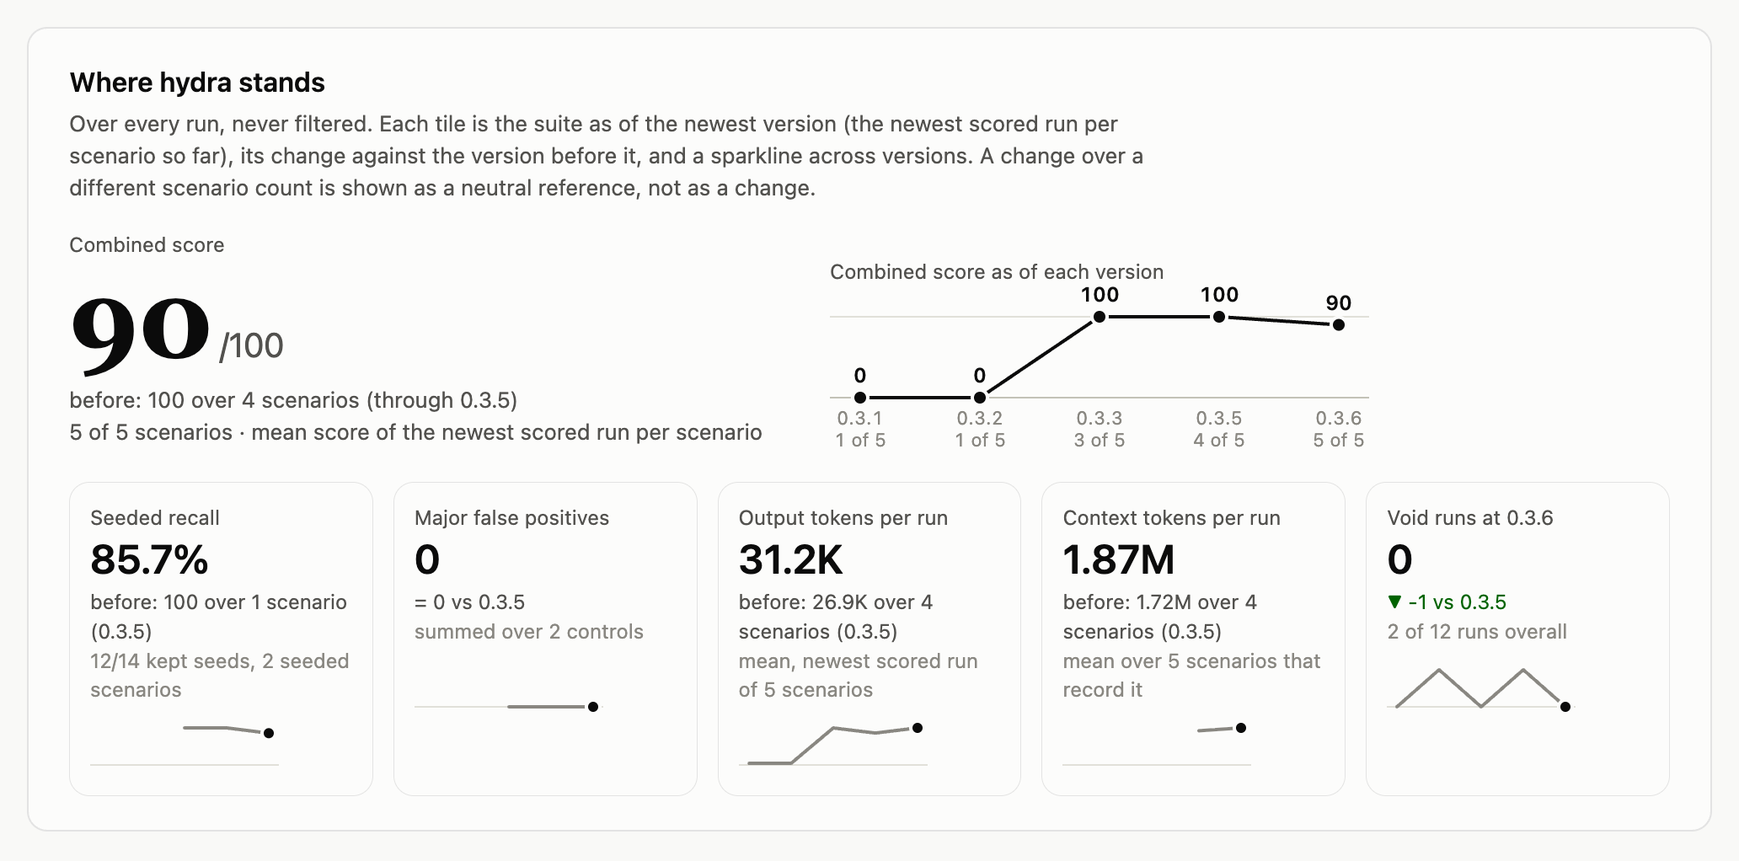
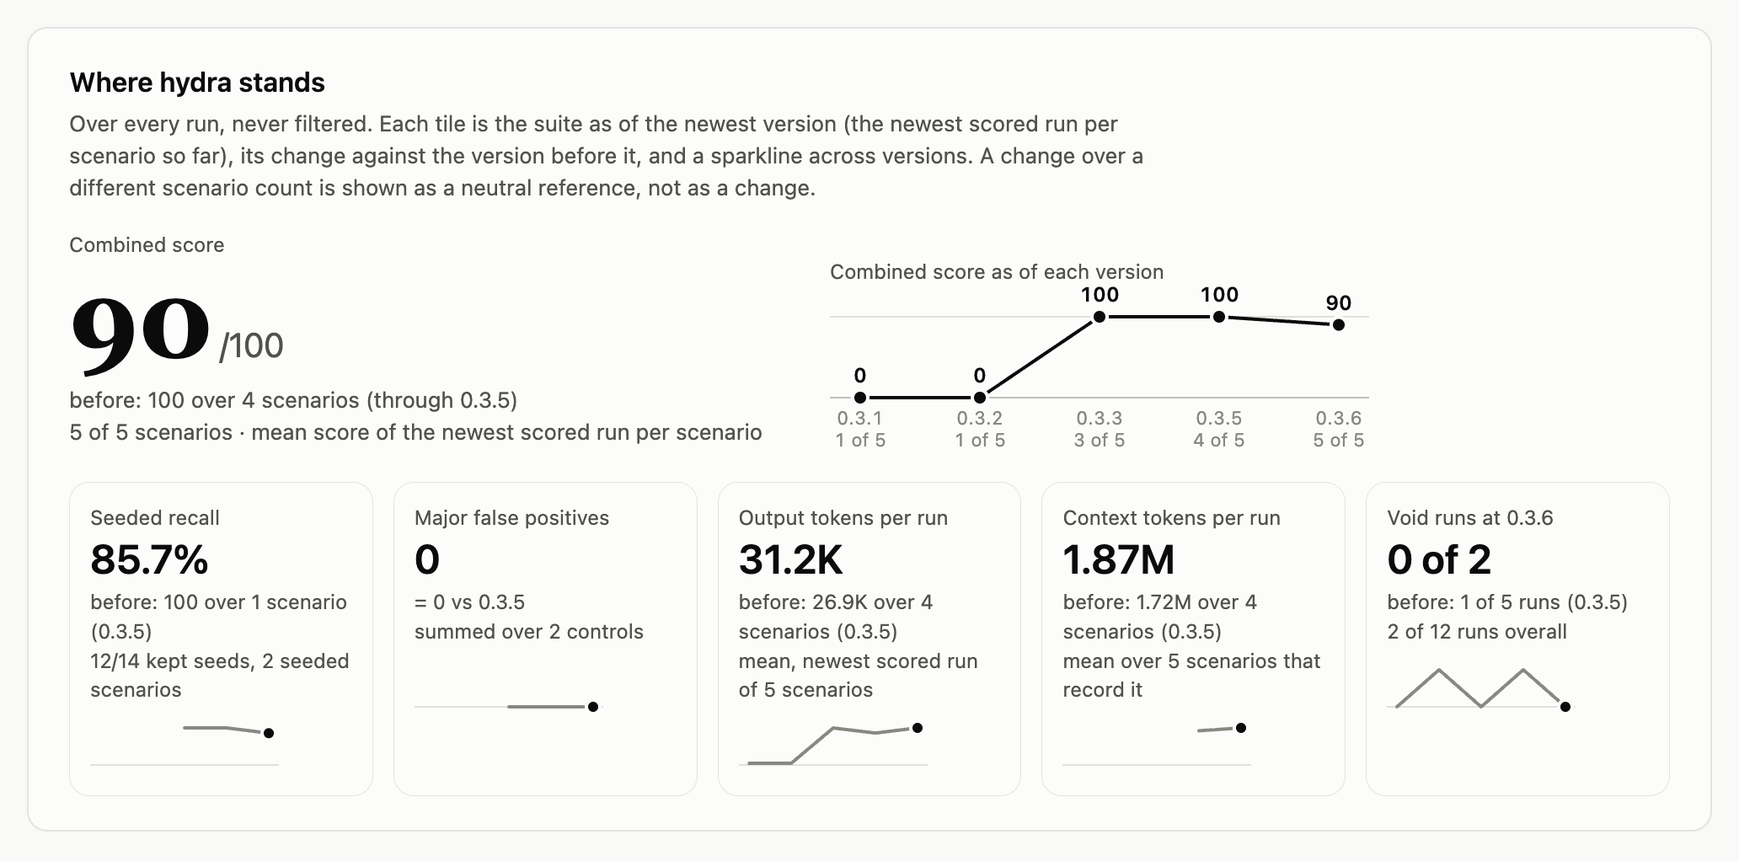
Evals report: review cycle 1 fixes
The scorecard cost row is the mean of per-run ratios over scored runs, and its
change covers only scenarios both versions scored. Trends mark a void run off the
value axis. The progress chart's partial-score label is haloed again. Void-run
counts compare only over equal run counts. Run vs run defaults to the newest
scored older version, and cost deltas against a void run are tagged and not
coloured. A seeded score changes by recall on shared seeds. Small text and
legend chips get more contrast.

diff --git a/evals/report.html b/evals/report.html
@@ -25,6 +25,7 @@ svg{display:block;max-width:100%;height:auto;overflow:visible}
 svg text{fill:var(--ink2);font-size:12px;font-variant-numeric:tabular-nums}
 .muted{fill:var(--muted)!important;font-size:11px}
 .ink{fill:var(--ink)!important}.b{font-weight:600}
+.halo{paint-order:stroke;stroke:var(--surface);stroke-width:4px;stroke-linejoin:round}
 .good{color:var(--good-t)!important;fill:var(--good-t)!important}.bad{color:var(--bad-t)!important;fill:var(--bad-t)!important}
 .up{color:var(--good-t)!important}.down{color:var(--bad-t)!important}
 [tabindex]{outline:none}[tabindex]:focus-visible>.hit,[tabindex]:hover>.hit{stroke:var(--ink);stroke-width:1.5}
@@ -32,7 +33,7 @@ td[tabindex]:hover,td[tabindex]:focus-visible{box-shadow:inset 0 0 0 1.5px var(-
 .hit{fill:transparent}
 .legend{display:flex;flex-wrap:wrap;gap:4px 14px;font-size:12px;color:var(--ink2);margin:0 0 12px}
 .legend>span{display:inline-flex;align-items:center;gap:5px}
-.legend i{display:inline-block;width:10px;height:10px;border-radius:2px;box-shadow:inset 0 0 0 .5px var(--axis)}
+.legend i{display:inline-block;width:10px;height:10px;border-radius:2px;box-shadow:inset 0 0 0 1px color-mix(in oklab,var(--ink) 30%,transparent)}
 .sw{display:inline-block;flex:none;overflow:visible}
 .tablewrap{overflow-x:auto;max-width:100%}
 table{border-collapse:collapse;width:100%;font-size:13px;font-variant-numeric:tabular-nums}
@@ -52,15 +53,15 @@ rect.st-pass{fill:var(--t-pass)}rect.st-fail{fill:var(--t-fail)}rect.st-partial{
 .kpis{display:grid;grid-template-columns:repeat(auto-fit,minmax(140px,1fr));gap:12px}
 .tile{border:.5px solid var(--border);border-radius:12px;padding:12px;min-width:0}
 .tile .v{font-size:24px;font-weight:600;margin:2px 0;line-height:1.2}.tile .v.sm{font-size:17px}
-.tile .d{font-size:12px;color:var(--ink2)}.tile .s{font-size:12px;color:var(--muted)}.tile svg{margin-top:8px}
+.tile .d{font-size:12px;color:var(--ink2)}.tile .s{font-size:12px;color:var(--ink2)}.tile svg{margin-top:8px}
 .group{font-size:12px;color:var(--ink2);margin:16px 0 8px}
 .matrix th,.matrix td{padding:8px 10px;border-bottom:.5px solid var(--grid);white-space:nowrap}
 .matrix tbody th,.matrix thead th:first-child{position:sticky;left:0;background:var(--surface);z-index:1}.matrix thead th{text-align:center}.matrix thead th:first-child{text-align:left}
 .matrix td.cell{text-align:center;border-left:2px solid var(--surface);border-radius:6px;font-weight:600}
 .matrix td.delta{font-size:12px;color:var(--ink2)}
-.matrix tbody th{color:var(--ink);font-size:13px}.matrix tbody th>div:first-child,.matrix tbody th:not(.scn){display:flex;align-items:center;gap:6px}.matrix .vs{font-weight:400;color:var(--muted);font-size:12px;margin-left:20px}
+.matrix tbody th{color:var(--ink);font-size:13px}.matrix tbody th>div:first-child,.matrix tbody th:not(.scn){display:flex;align-items:center;gap:6px}.matrix .vs{font-weight:400;color:var(--ink2);font-size:12px;margin-left:20px}
 .matrix tfoot th,.matrix tfoot td{font-weight:400;color:var(--ink2);font-size:12px;text-align:center;border-bottom:none}
-.matrix tfoot th{text-align:left}.matrix tfoot b{color:var(--ink);font-size:13px;display:block}
+.matrix tfoot th{text-align:left}.matrix tfoot td.delta{white-space:normal;min-width:150px}.matrix tfoot b{color:var(--ink);font-size:13px;display:block}
 .multiples{display:grid;grid-template-columns:repeat(auto-fill,minmax(min(100%,290px),1fr));gap:12px}
 .multiples.w{grid-template-columns:repeat(auto-fill,minmax(min(100%,440px),1fr))}
 .panel{border:.5px solid var(--border);border-radius:12px;padding:12px;min-width:0}
@@ -85,7 +86,7 @@ rect.st-pass{fill:var(--t-pass)}rect.st-fail{fill:var(--t-fail)}rect.st-partial{
 <section id="progress"><h2>Progress per eval run</h2><p class="sub">Every run, oldest to newest (date, then version). Run score 0–100: a seeded run scores its recall × 100 over kept seeds; a control or S16 scores 100 on a pass and 0 on a fail; a void run has no score (hollow, below the axis). The line is the combined score at the end of each version: the mean score of the newest scored run per scenario (newest by version) among the runs so far. Colour is the scenario family, shape the kind: circle seeded, diamond control, square S16.</p><div class="chart"></div><details><summary>Table view</summary><div class="tv"></div></details></section>
 <section id="scorecard"><h2>Version scorecard</h2><p class="sub">Each cell is the scenario’s result at that version: caught/kept seeds, major false positives (FP) on a control, pass or fail on S16. Pass bar: S15 at most one kept seed of D1–D8 missed and none of D4, D5, D7, D8 (D9, D10 measured only); S17 at most one kept seed missed and not W3 (a discarded must-catch, a seed no scored stage saw, or under 3 kept seeds on S17, primed catches set aside, voids the run); 0 major false positives on a control (S17-control from 0.3.7: and an on-brief merged head); S16 blocked, honest and unmerged. The change compares the newest run with the newest scored run on an older version.</p><div class="chart"></div><details><summary>Table view</summary><div class="tv"></div></details></section>
 <section id="trends"><h2>Trends per scenario</h2><p class="sub">One panel per scenario, one column per run, oldest version left. Each row has its own scale from 0; the right edge shows the newest value and its change against the run before. Hover or focus a column for every field of the run.</p><div class="chart"></div><details><summary>Table view</summary><div class="tv"></div></details></section>
-<section id="compare"><h2>Run vs run</h2><p class="sub">The same scenario on two versions. Default: its newest version against the version before it. Cost up reads bad, quality up reads good; a void run shows no quality number.</p><div class="chart"></div><details><summary>Table view</summary><div class="tv"></div></details></section>
+<section id="compare"><h2>Run vs run</h2><p class="sub">The same scenario on two versions. Default: its newest version against its newest scored older version (the scorecard’s comparison), else the version before it. Cost up reads bad, quality up reads good; a seeded score changes by recall on the seeds both runs hold; a void side shows no quality number, and a cost change against it is tagged and not coloured.</p><div class="chart"></div><details><summary>Table view</summary><div class="tv"></div></details></section>
 <section id="heatmap"><h2>Recall per planted defect</h2><p class="sub">S15-seeded runs, oldest to newest. Each cell names the stage that caught the defect; hover for the finding.</p><div class="chart"></div><details><summary>Table view</summary><div class="tv"></div></details></section>
 <section id="cost"><h2>Cost per stage</h2><p class="sub">Output tokens per stage (ag = agents), one scale per scenario so its versions compare stage by stage; stages that did not run show –. Normalized cost is defined in evals/README.md.</p><div class="chart"></div><details><summary>Table view</summary><div class="tv"></div></details></section>
 <section id="pipeline"><h2>hydra pipeline</h2><p class="sub"></p><div class="chart"></div><details><summary>Table view</summary><div class="tv"></div></details></section>
@@ -235,7 +236,7 @@ function versionKpis(runs) {
       recall: sd.length ? { value: kept ? Math.round(1000 * caught / kept) / 10 : 0, caught, kept, n: sd.length } : null,
       majorFP: ctl.length ? { value: ctl.reduce((a, r) => a + r.falsePositives.major, 0), n: ctl.length } : null,
       outputTokens: normMean(latest, 'outputTokens'), contextTokens: normMean(latest, 'contextTokens'),
-      voids: runs.filter(r => r.hydraVersion === version && passBar(r) === 'void').length }
+      voids: runs.filter(r => r.hydraVersion === version && passBar(r) === 'void').length, runs: runs.filter(r => r.hydraVersion === version).length }
   })
 }
 function kpiDelta(c, p, better, unit = '', f = String) {
@@ -244,25 +245,39 @@ function kpiDelta(c, p, better, unit = '', f = String) {
 }
 function scenarioVersions(runs, scenario) { return [...new Set(runs.filter(r => r.scenario === scenario).map(r => r.hydraVersion))].sort(vcmp) }
 function defaultPair(runs, scenario) {
-  const v = scenarioVersions(runs, scenario)
-  return v.length ? { base: v.at(-2) ?? v.at(-1), compare: v.at(-1) } : null
+  const v = scenarioVersions(runs, scenario), top = runOf(runs, scenario, v.at(-1))
+  return v.length ? { base: (top && previousOf(runs, top)?.hydraVersion) ?? v.at(-2) ?? v.at(-1), compare: v.at(-1) } : null
 }
 function compareRows(a, b) {
   const na = normCost(a), nb = normCost(b), va = passBar(a) === 'void', vb = passBar(b) === 'void'
   const row = (label, x, y, better, unit, f = String, q) => {
     const s = (v, isVoid) => q && isVoid ? 'void' : v == null ? '–' : f(v)
-    return { label, base: s(x, va), compare: s(y, vb), delta: q && (va || vb) ? null : change(y, x, better, unit) }
+    const d = q && (va || vb) ? null : change(y, x, better, unit)
+    // a cost change against a void run is real but not a like-for-like comparison: tagged, never coloured
+    return { label, base: s(x, va), compare: s(y, vb), delta: d && (va || vb) ? { text: `${d.text} vs void run`, cls: '' } : d }
   }
   const sd = r => { const s = seeds(r); return `${s.caught}/${s.kept}` }, seeded = b.scenario.endsWith('-seeded'), ctl = b.scenario.endsWith('-control'), tok = v => fmt(Math.round(v))
   const recall = seeded && { label: 'Recall', base: va ? 'void' : sd(a), compare: vb ? 'void' : sd(b), delta: null }
   if (recall && !va && !vb) { const d = recallDelta(b, a); recall.delta = { text: `${arrow(d)}${d} pts`, cls: d > 0 ? 'good' : d < 0 ? 'bad' : '' } }
-  return [row('Score', runScore(a), runScore(b), 1, ' pts', String, true), recall,
+  // a seeded score is its recall, so its change is the recall change on the seeds both runs hold
+  const score = row('Score', runScore(a), runScore(b), 1, ' pts', String, true); if (recall) score.delta = recall.delta
+  return [score, recall,
     ctl && row('Major false positives', a.falsePositives.major, b.falsePositives.major, -1, '', String, true),
     row('Output tokens', na.outputTokens, nb.outputTokens, -1, '%', tok), row('Context tokens', na.contextTokens, nb.contextTokens, -1, '%', tok),
     row('Agents', na.agents, nb.agents, -1), row('Wall minutes', na.wallMinutes, nb.wallMinutes, -1),
     seeded && row('Tokens per kept seed', na.perKept, nb.perKept, -1, '%', tok, true), seeded && row('Tokens per caught seed', na.perCaught, nb.perCaught, -1, '%', tok, true),
     row('Tokens per agent', na.perAgent, nb.perAgent, -1, '%', tok), row('Context per agent', na.ctxPerAgent, nb.ctxPerAgent, -1, '%', tok),
     row('Minutes per agent', na.minPerAgent, nb.minPerAgent, -1)].filter(Boolean)
+}
+function versionCost(runs, version) {
+  const rs = runs.filter(r => r.hydraVersion === version && passBar(r) !== 'void'), m = normMean(rs, 'perAgent')
+  return m && { ...m, tokens: rs.reduce((a, r) => a + r.cost.outputTokens, 0) }
+}
+function sharedCostDelta(runs, c, p) {
+  const scored = v => new Set(runs.filter(r => r.hydraVersion === v && passBar(r) !== 'void').map(r => r.scenario)), b = scored(p), shared = [...scored(c)].filter(s => b.has(s))
+  if (!shared.length) return null
+  const m = v => normMean(runs.filter(r => r.hydraVersion === v && shared.includes(r.scenario)), 'perAgent').value, d = change(m(c), m(p), -1, '%')
+  return d && { ...d, text: `${d.text} vs ${p} on ${shared.length} shared scenario${shared.length > 1 ? 's' : ''}` }
 }
 function runFields(r) {
   const n = normCost(r), s = runScore(r), sd = r.defects && seeds(r), fp = r.falsePositives
@@ -450,7 +465,9 @@ function runFields(r) {
     tile('Major false positives', fp ? String(fp.value) : '–', kpiDelta(fp, prev?.majorFP, -1), fp ? `summed over ${ofN(fp, 'control')}` : 'no scored control', ks.map(k => k.majorFP?.value ?? null), String)
     tile('Output tokens per run', tok(ot?.value), kpiDelta(ot, prev?.outputTokens, -1, '%', tok), ot ? `mean, newest scored run of ${ofN(ot, 'scenario')}` : '–', ks.map(k => k.outputTokens?.value ?? null), tok)
     tile('Context tokens per run', tok(ct?.value), kpiDelta(ct, prev?.contextTokens, -1, '%', tok), ct ? `mean over ${ofN(ct, 'scenario')} that record it` : 'not recorded yet', ks.map(k => k.contextTokens?.value ?? null), tok)
-    tile(`Void runs at ${last?.version ?? '–'}`, String(last?.voids ?? 0), prev ? change(last.voids, prev.voids, -1) : null, `${voids} of ${D.runs.length} runs overall`, ks.map(k => k.voids), String)
+    // void counts compare only over the same number of runs; else the earlier count is a neutral reference
+    const vd = !prev ? null : prev.runs === last.runs ? change(last.voids, prev.voids, -1) : { text: `before: ${prev.voids} of ${prev.runs} runs`, cls: '' }
+    tile(`Void runs at ${last?.version ?? '–'}`, last ? `${last.voids} of ${last.runs}` : '0', vd, `${voids} of ${D.runs.length} runs overall`, ks.map(k => k.voids), String)
     table(sec, ['Version', 'Combined', 'Seeded recall', 'Major FP (controls)', 'Output tokens per run', 'Context tokens per run', 'Void runs at version'],
       ks.map(k => [k.version, k.combined ? `${k.combined.value} (${k.combined.n} of ${n})` : '–', k.recall ? `${k.recall.value}% (${k.recall.caught}/${k.recall.kept})` : '–', k.majorFP ? String(k.majorFP.value) : '–', tok(k.outputTokens?.value), tok(k.contextTokens?.value), String(k.voids)]))
     table(sec, ['Tile', 'Value', 'Change', 'Detail'], rows, true, 'Tiles')
@@ -494,7 +511,7 @@ function runFields(r) {
       h('svg:rect', { x: x - CW / 2 + 1, y: TOP - 8, width: CW - 2, height: VY - TOP + 20, rx: 4, class: 'hit' }, g)
       mark(g, r.scenario, x, score === null ? VY : y(score), 5, score === null)
       // only a partial recall gets its number: 0 and 100 sit on gridlines
-      if (score % 100) t(g, x - 10, y(score) + 4, String(score), 'ink', 'end')
+      if (score % 100) t(g, x, y(score) - 10, String(score), 'ink halo', 'middle')
       t(g, x, XL, fam, 'ink', 'middle'); t(g, x, XL + 13, kind, 'muted', 'middle')
       hover(g, [[r.id], [score === null ? '⊘ void' : String(score), 'run score', score === null ? 'var(--neutral)' : col(r.scenario)], [r.scenario, 'scenario'], [r.hydraVersion, 'version'], [r.date, 'date'],
         [WORD[r.verdict], 'verdict'], [c ? String(c.score) : '–', `combined as of this run${c ? ` · ${c.n} of ${n} scenarios` : ''}`, 'var(--ink)']])
@@ -526,9 +543,9 @@ function runFields(r) {
       const latest = latestPerScenario(runs.filter(r => r.scenario === sc))[0], dl = scenarioDelta(latest, previousOf(runs, latest))
       h('td', { class: `delta ${dl.cls}` }, tr, dl.text)
     }
-    const ks = Object.fromEntries(versionKpis(D.runs).map(k => [k.version, k])), cost = vers.map(v => normMean(runs.filter(r => r.hydraVersion === v), 'perAgent'))
-    const frow = (label, cells, delta) => {
-      const tr = h('tr', {}, foot); h('th', { scope: 'row' }, tr, label)
+    const ks = Object.fromEntries(versionKpis(D.runs).map(k => [k.version, k])), cost = vers.map(v => versionCost(runs, v))
+    const frow = (label, cells, delta, note) => {
+      const tr = h('tr', {}, foot), th = h('th', { scope: 'row' }, tr, label); if (note) h('div', {}, th, note)
       for (const [main, sub] of cells) { const td = h('td', {}, tr); h('b', {}, td, main); td.append(sub) }
       h('td', { class: `delta ${delta?.cls ?? ''}`, style: 'text-align:left' }, tr, delta?.text ?? '')
     }
@@ -536,9 +553,8 @@ function runFields(r) {
       const k = vers.map(v => ks[v].combined), dk = kpiDelta(k.at(-1), k.at(-2), 1)
       frow('Combined as of version', k.map(c => c ? [String(c.value), `${c.n} of ${n}`] : ['–', '']), dk && { ...dk, text: `${dk.text}${dk.text.startsWith('before') ? '' : ` vs ${vers.at(-2)}`}` })
     }
-    const dc = change(cost.at(-1)?.value, cost.at(-2)?.value, -1, '%')
-    frow('Output tokens per agent', vers.map((v, i) => { const rs = runs.filter(r => r.hydraVersion === v); return [tok(cost[i]?.value), `${fmt(rs.reduce((a, r) => a + r.cost.outputTokens, 0))} in ${rs.length} run${rs.length > 1 ? 's' : ''}`] }),
-      dc && { ...dc, text: `${dc.text} vs ${vers.at(-2)}` })
+    frow('Output tokens per agent', cost.map(c => c ? [tok(c.value), `${c.n} run${c.n > 1 ? 's' : ''}, ${fmt(c.tokens)} tokens`] : ['–', 'void only']),
+      vers.length > 1 ? sharedCostDelta(runs, vers.at(-1), vers.at(-2)) : null, 'mean of scored runs')
     table(sec, ['Scenario', 'Version', 'Result', 'Verdict', 'Reason'], tv)
   }
 
@@ -547,7 +563,7 @@ function runFields(r) {
     const sec = $('trends'), el = sec.querySelector('.chart'), scs = D.scenarios.filter(sc => runs.some(r => r.scenario === sc))
     if (!scs.length) { table(sec, [], []); return empty(el, 'No runs in this filter.') }
     const v = runs.find(isVoid)
-    scLegend(el, scs, v ? [['void', v.scenario, 'void run: quality not scored, cost still drawn']] : [])
+    scLegend(el, scs, v ? [['void', v.scenario, 'void run: cost drawn hollow; quality rows show ⊘, not scored']] : [])
     const grid = h('div', { class: 'multiples' }, el)
     scs.forEach((sc, k) => panel(sec, grid, sc, runs.filter(r => r.scenario === sc).sort(chrono), k > 0))
   }
@@ -575,8 +591,10 @@ function runFields(r) {
       let d = '', open = false
       vals.forEach((v, i) => { if (v == null) { open = false; return } d += `${open ? 'L' : 'M'}${X(i)},${Y(v)}`; open = true })
       h('svg:path', { d: d || 'M0,0', fill: 'none', stroke: col(sc), 'stroke-width': 2, 'stroke-linejoin': 'round', 'stroke-linecap': 'round' }, s)
-      rs.forEach((r, i) => { if (vals[i] != null) mark(s, sc, X(i), Y(vals[i]), 4, isVoid(r)); else if (quality && isVoid(r)) mark(s, sc, X(i), yb, 4, true) })
-      const lv = vals.at(-1), dl = rs.length > 1 ? change(lv, vals.at(-2), better, unit) : null
+      // a void run is not on the value axis: quality rows mark it ⊘ at mid-row, never on the 0 baseline
+      rs.forEach((r, i) => { if (vals[i] != null) mark(s, sc, X(i), Y(vals[i]), 4, isVoid(r)); else if (quality && isVoid(r)) t(s, X(i), y0 + RH / 2 + 4, '⊘', 'muted', 'middle') })
+      const lv = vals.at(-1), pr = rs.at(-2), rd = seeded && !j && pr && !isVoid(lr) && !isVoid(pr) ? recallDelta(lr, pr) : null
+      const dl = rd !== null ? { text: `${arrow(rd)}${rd} pts`, cls: rd > 0 ? 'good' : rd < 0 ? 'bad' : '' } : rs.length > 1 ? change(lv, vals.at(-2), better, unit) : null
       t(s, W, y0 + 15, lv == null ? (quality && isVoid(lr) ? 'void' : '–') : f(lv), 'ink b', 'end')
       if (dl) t(s, W, y0 + 28, dl.text, `muted ${dl.cls}`, 'end')
     })
@@ -595,7 +613,7 @@ function runFields(r) {
     if (!fs) return compareAll(sec, el)
     const a = runOf(D.runs, fs, $('f-base').value), b = runOf(D.runs, fs, $('f-compare').value)
     const rows = compareRows(a, b), norm = l => /per /.test(l), tv = []
-    if (a === b) h('p', { class: 'hint', style: 'margin:0 0 12px' }, el, `Only one version ran ${fs} so far, so it is compared with itself.`)
+    if (a === b) h('p', { class: 'hint', style: 'margin:0 0 12px' }, el, scenarioVersions(D.runs, fs).length === 1 ? `Only one version ran ${fs} so far, so it is compared with itself.` : 'Base and Compare are the same version.')
     for (const [title, part] of [['Quality and cost per run', rows.filter(r => !norm(r.label))], ['Normalized cost', rows.filter(r => norm(r.label))]]) {
       h('div', { class: 'group' }, el, title)
       const tiles = h('div', { class: 'kpis' }, el)

diff --git a/evals/README.md b/evals/README.md
@@ -56,11 +56,11 @@ Tokens round to integers, minutes per agent to two decimals. A mean of a normali
 
 Progress first, one PNG per section, in page order:
 
-- **summary:** the combined score (hero) with a sparkline of the combined score as of each version, and a KPI row: seeded recall (caught over kept, pooled over the newest scored seeded run per scenario), major false positives (summed over the newest scored control per scenario), output and context tokens per run (mean over the newest scored run per scenario), and void runs at the newest version. Each KPI is the suite as of a version, with its change against the version before (a different scenario count shows the earlier value as a neutral reference) and a sparkline across versions. Never filtered.
+- **summary:** the combined score (hero) with a sparkline of the combined score as of each version, and a KPI row: seeded recall (caught over kept, pooled over the newest scored seeded run per scenario), major false positives (summed over the newest scored control per scenario), output and context tokens per run (mean over the newest scored run per scenario), and void runs at the newest version (its change only when both versions ran the same number of runs, else a neutral reference). Each KPI is the suite as of a version, with its change against the version before (a different scenario count shows the earlier value as a neutral reference) and a sparkline across versions. Never filtered.
 - **progress:** the per-run progress chart (run score and the combined-score step line, last 16 runs).
-- **scorecard:** scenarios × versions. A cell is the scenario's newest run at that version: `caught/kept` on a seeded run, `0 FP` or `N major FP` on a control, `pass`/`fail` on S16, `void`, or `–` when it did not run. Tint: pass, partial (a seeded pass that missed a kept seed), fail, void (neutral). The last column is the newest run against the newest scored run on an older version (recall points on the seeds both hold, major false positives, or the S16 verdict). Footer: the combined score as of each version and the mean output tokens per agent of that version's runs.
-- **trends:** one panel per scenario, one column per run: score or recall, major false positives on a control, output and context tokens, agents, wall minutes, tokens per kept and per caught seed (seeded) and per agent. Hover or focus a column for every field of the run.
-- **compare (run vs run):** pick a scenario in the filter row, then Base and Compare (default: its newest version against the version before it, a void run included since its cost counts). Tiles show before → after with the change (cost up reads bad, quality up good), normalized cost below, and per-stage output and context tokens as two grouped-bar charts. With all scenarios selected (and in the PNG) it is one table of every scenario's default pair.
+- **scorecard:** scenarios × versions. A cell is the scenario's newest run at that version: `caught/kept` on a seeded run, `0 FP` or `N major FP` on a control, `pass`/`fail` on S16, `void`, or `–` when it did not run. Tint: pass, partial (a seeded pass that missed a kept seed), fail, void (neutral). The last column is the newest run against the newest scored run on an older version (recall points on the seeds both hold, major false positives, or the S16 verdict). Footer: the combined score as of each version, and output tokens per agent as the mean of per-run ratios over that version's scored runs; its change compares only the scenarios both versions scored ("on N shared scenarios").
+- **trends:** one panel per scenario, one column per run: score or recall, major false positives on a control, output and context tokens, agents, wall minutes, tokens per kept and per caught seed (seeded) and per agent. A void run shows ⊘ in quality rows, off the value axis, and a hollow marker on cost rows. The recall change is on the seeds both runs hold. Hover or focus a column for every field of the run.
+- **compare (run vs run):** pick a scenario in the filter row, then Base and Compare (default: its newest version against its newest scored older version, as the scorecard compares; with none, the version before it, void or not, since its cost counts). Tiles show before → after with the change (cost up reads bad, quality up good; a seeded score changes by recall on the shared seeds; a cost change against a void run is tagged "vs void run" and not coloured), normalized cost below, and per-stage output and context tokens as two grouped-bar charts. With all scenarios selected (and in the PNG) it is one table of every scenario's default pair.
 - **heatmap:** per planted defect, which stage caught it.
 - **cost:** per scenario, output tokens per stage and version on one scale, with agents, totals, per-agent and context.
 - **pipeline:** the pipeline diagram with one run's per-stage tokens.
